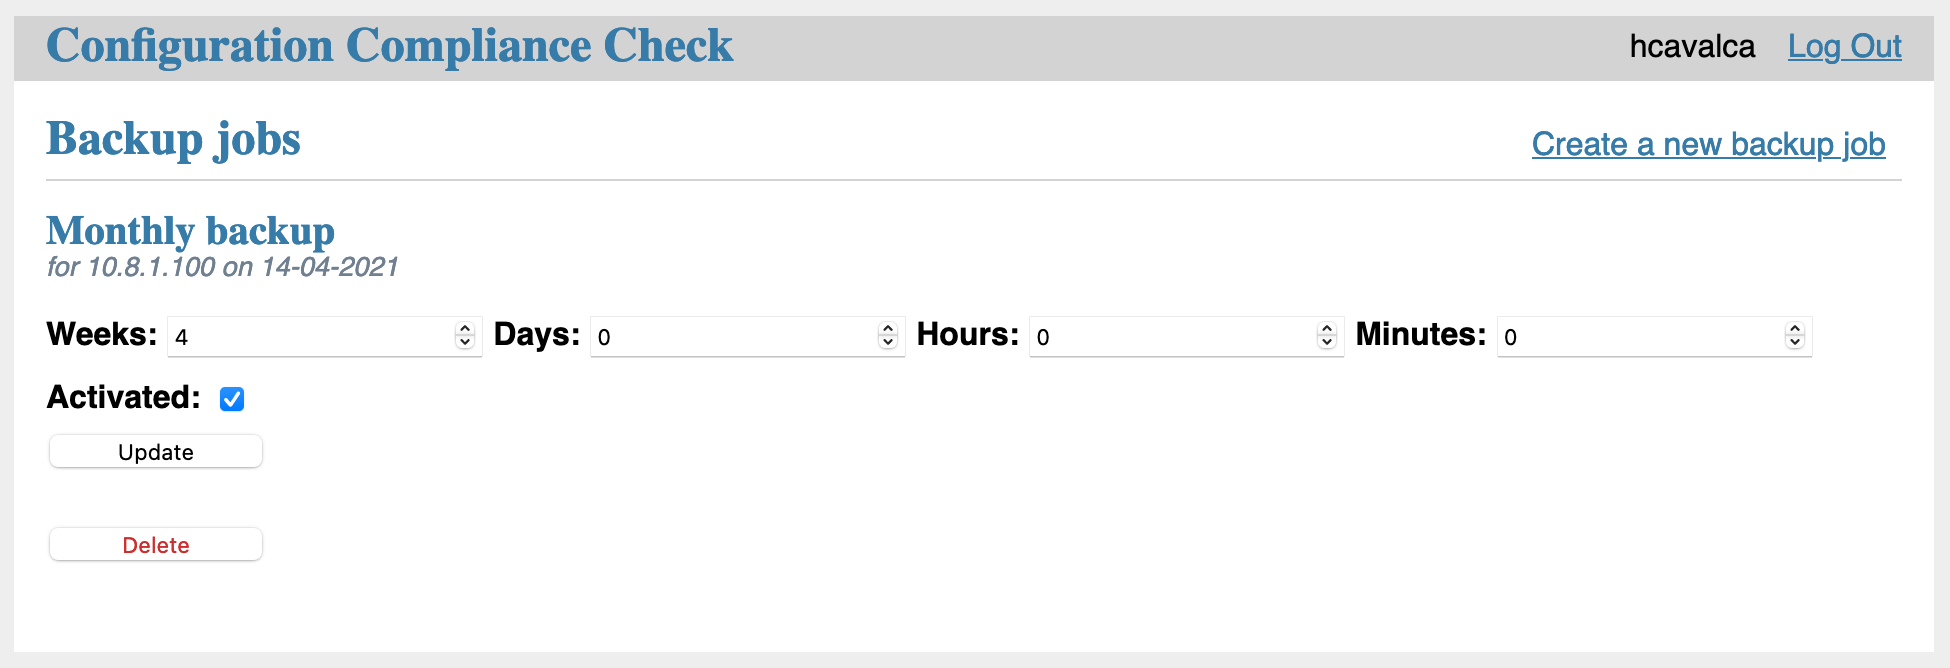
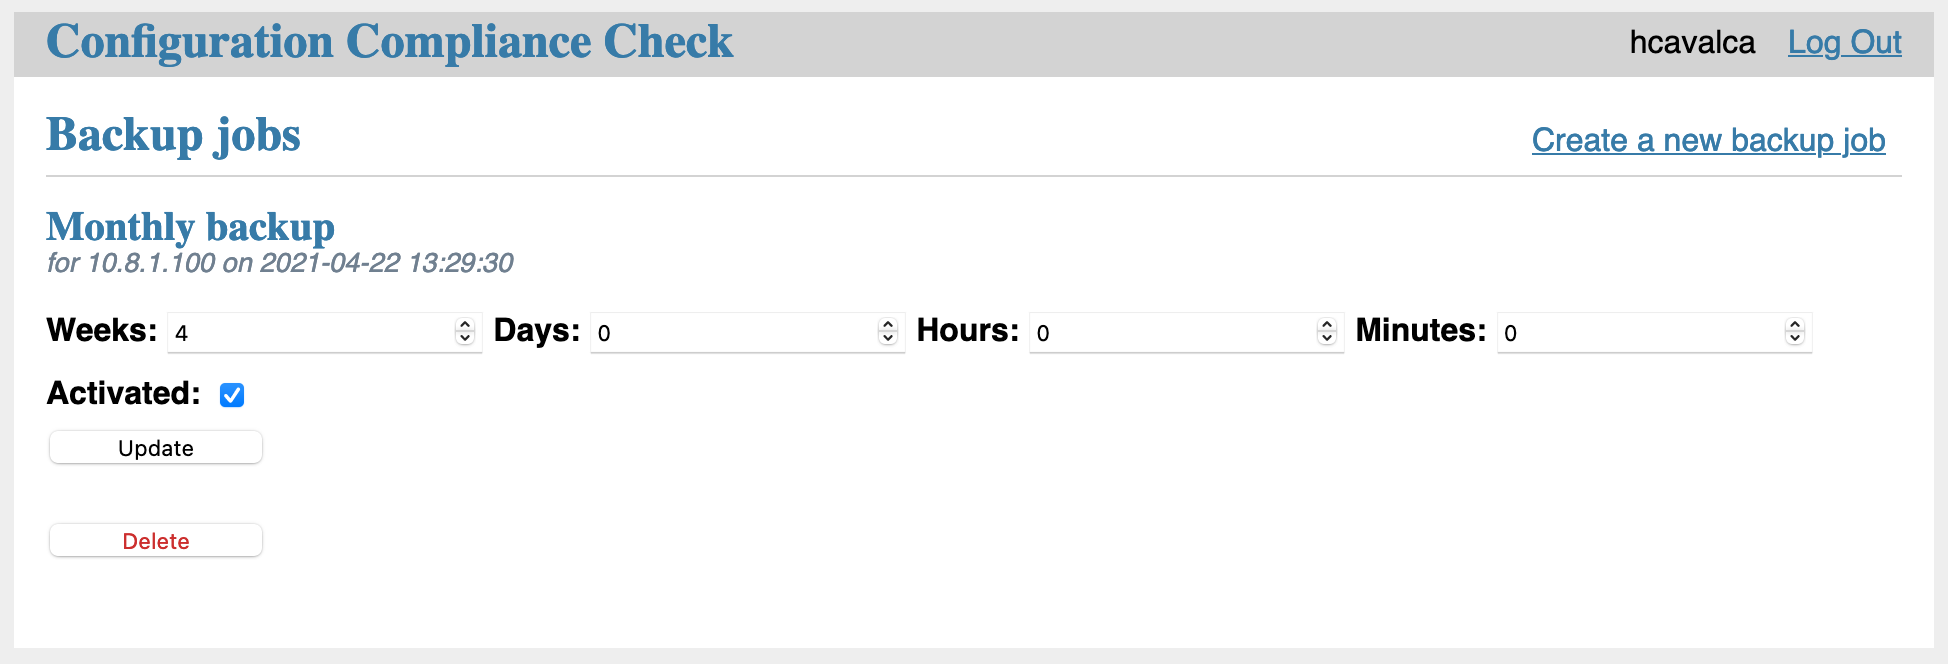
Change job timestamp with updates

diff --git a/ccc/flaskr/templates/jobs/index.html b/ccc/flaskr/templates/jobs/index.html
@@ -11,7 +11,7 @@
       <header>
         <div>
           <h1>{{ job['title'] }}</h1>
-          <div class="about">for {{ job['addr'] }} on {{ job['created'].strftime('%d-%m-%Y') }}</div>
+          <div class="about">for {{ job['addr'] }} on {{ job['created'] }}</div>
         </div>
       </header>
       <form action="{{ url_for('jobs.update', id=job['dnac_id'], id_job=job['id']) }}" method="post" >

diff --git a/ccc/flaskr/jobs.py b/ccc/flaskr/jobs.py
@@ -139,7 +139,7 @@ def update(id, id_job):
         else:
             db = get_db()
             db.execute(
-                "UPDATE job SET frequency = ?, activated = ? WHERE id = ?",
+                "UPDATE job SET created = CURRENT_TIMESTAMP, frequency = ?, activated = ? WHERE id = ?",
                 (frequency, activated, id_job)
             )
             db.commit()
